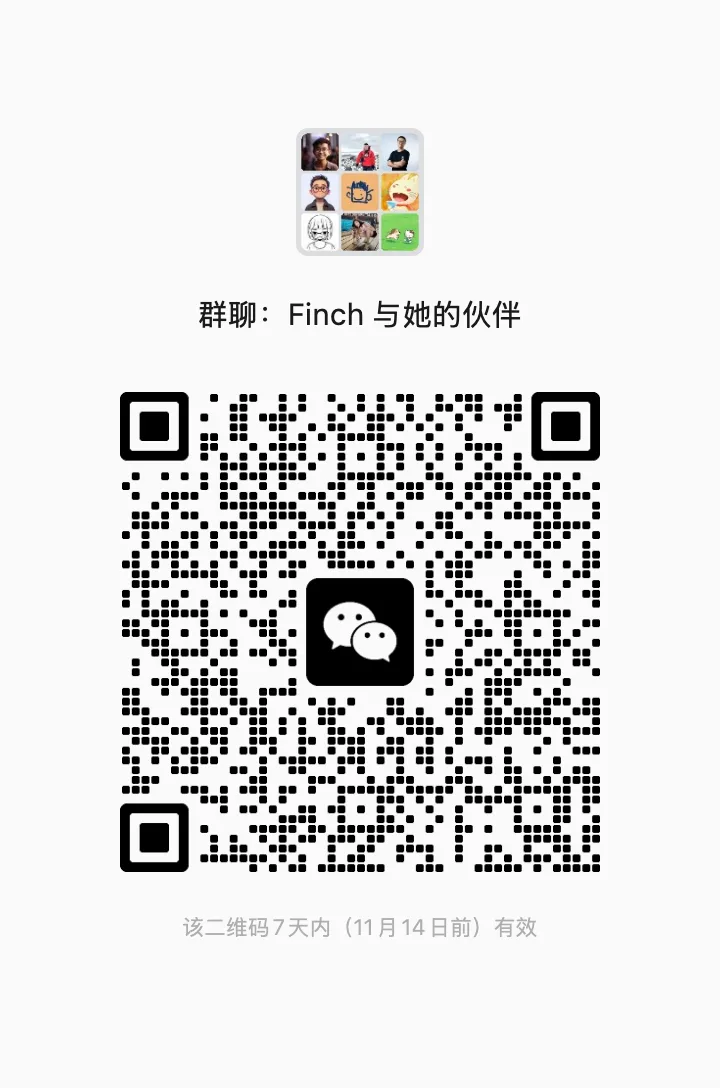
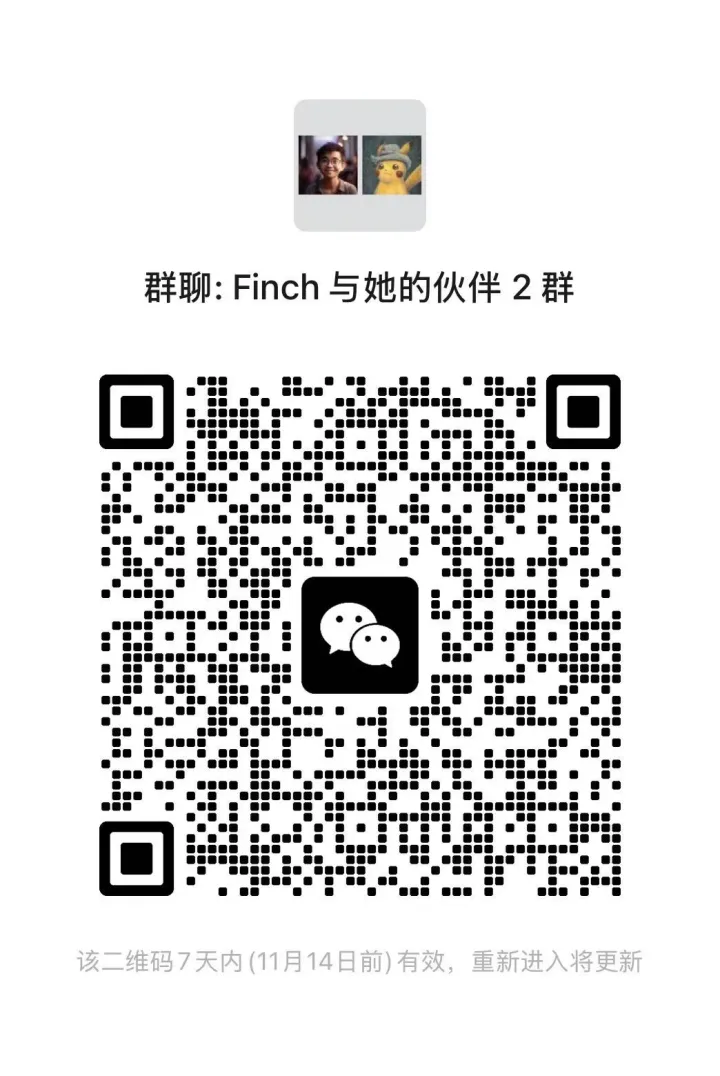
chore(docs): 社群二维码换成 Finch 与她的伙伴 2 群（有效期至 11 月 14 日）
1 群已满，改用 2 群二维码；中英文 README 群名同步标注 2 群与 1 群已满。

diff --git a/README.md b/README.md
@@ -99,11 +99,12 @@ Finch Toolbox
 
 ## Join the community
 
-Finch has a WeChat user group, **Finch 与她的伙伴** — a Chinese-language space for
-questions, mini tool ideas, and bug reports. Scan the code with WeChat to join.
+Finch has a WeChat user group, **Finch 与她的伙伴 2 群** (group 1 is full) — a
+Chinese-language space for questions, mini tool ideas, and bug reports. Scan the
+code with WeChat to join.
 
 <div align="center">
-  <img src="https://raw.githubusercontent.com/finchtoys/finch-releases/main/wechat-group.webp" alt="WeChat group QR code for the Finch user group" width="240" />
+  <img src="https://raw.githubusercontent.com/finchtoys/finch-releases/main/wechat-group.webp" alt="WeChat group QR code for Finch 与她的伙伴 2 群" width="240" />
 </div>
 
 WeChat group invitations expire after 7 days. If the code above has gone stale,

diff --git a/README.zh-CN.md b/README.zh-CN.md
@@ -96,10 +96,10 @@ Finch Toolbox
 
 ## 加入社区
 
-Finch 有一个微信用户群 **Finch 与她的伙伴**——提问、聊小程序点子、报 bug 都可以来这里。用微信扫码加入。
+Finch 的微信用户群 **Finch 与她的伙伴 2 群**（1 群已满）——提问、聊小程序点子、报 bug 都可以来这里。用微信扫码加入。
 
 <div align="center">
-  <img src="https://raw.githubusercontent.com/finchtoys/finch-releases/main/wechat-group.webp" alt="Finch 微信用户群二维码" width="240" />
+  <img src="https://raw.githubusercontent.com/finchtoys/finch-releases/main/wechat-group.webp" alt="Finch 微信用户群 2 群二维码" width="240" />
 </div>
 
 微信群邀请 7 天过期。如果上面的二维码已经失效，请[开一个 issue](https://github.com/finchtoys/finch-releases/issues)，我们会更新它。
